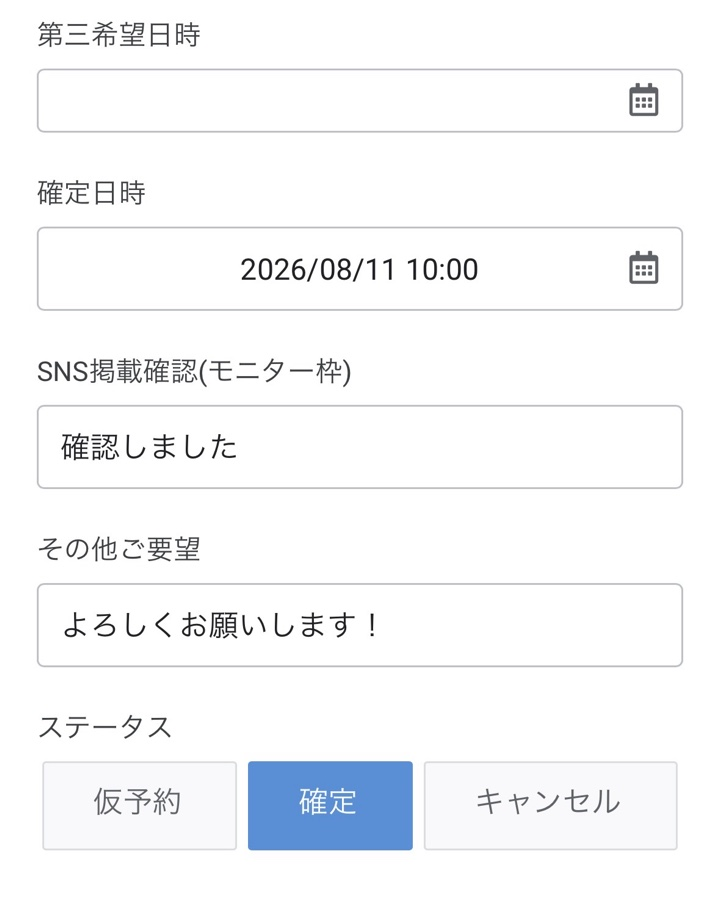
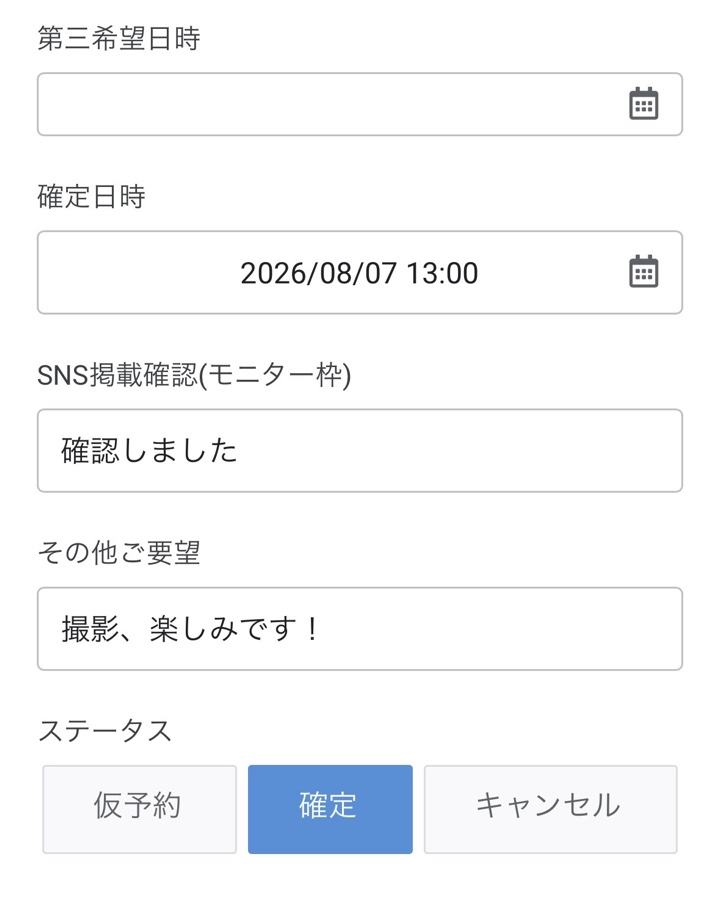
Update reservation confirmation screenshot

diff --git a/ai/reservation/index.html b/ai/reservation/index.html
@@ -77,7 +77,7 @@
         <h2>お客様にも、管理者にも<br>わかりやすい仕組みを。</h2>
         <div class="reservation-screens reservation-screens--phone">
           <figure class="reservation-slot reservation-slot--phone"><img src="/images/ai-reservation-line-booking.jpg?v=2" alt="公式LINE上で入力する予約申込みフォームの画面"><figcaption>お客様が、公式LINEから必要な内容を入力して予約申し込みをします。</figcaption></figure>
-          <figure class="reservation-slot reservation-slot--phone"><img src="/images/ai-reservation-confirmation.jpg?v=2" alt="管理者が予約を確定する操作画面"><figcaption>管理者が申込内容を確認し、予約確定の操作を行います。</figcaption></figure>
+          <figure class="reservation-slot reservation-slot--phone"><img src="/images/ai-reservation-confirmation.jpg?v=3" alt="管理者が予約を確定する操作画面"><figcaption>管理者が申込内容を確認し、予約確定の操作を行います。</figcaption></figure>
           <figure class="reservation-slot reservation-slot--phone"><img src="/images/ai-reservation-confirmation-message.jpg?v=2" alt="公式LINEで届く予約確定連絡の画面"><figcaption>予約確定の操作に合わせて、お客様へ確定連絡が届きます。</figcaption></figure>
           <figure class="reservation-slot reservation-slot--phone"><img src="/images/ai-reservation-reminder.jpg?v=3" alt="公式LINEで届く予約前日のリマインド画面"><figcaption>失念してはいけない、予約前日のリマインドを自動で送れます。</figcaption></figure>
         </div>
